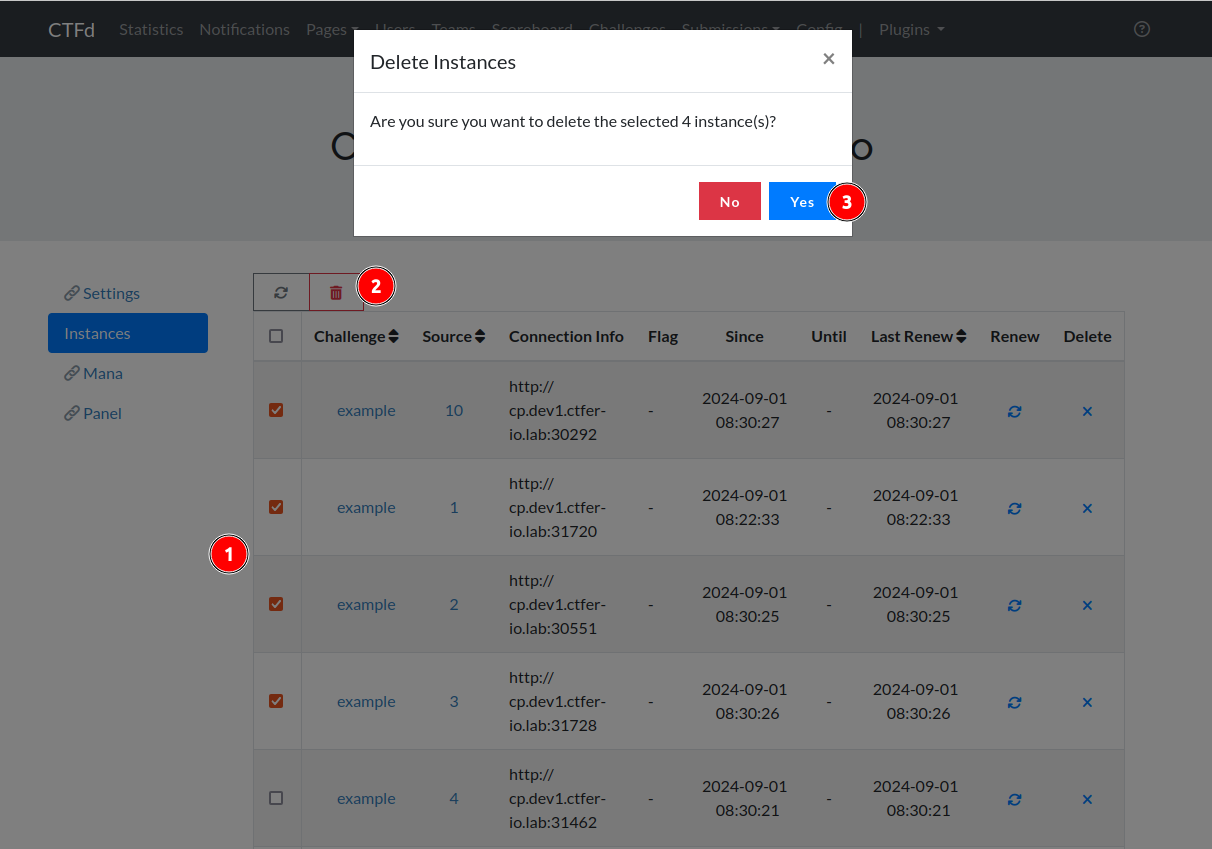
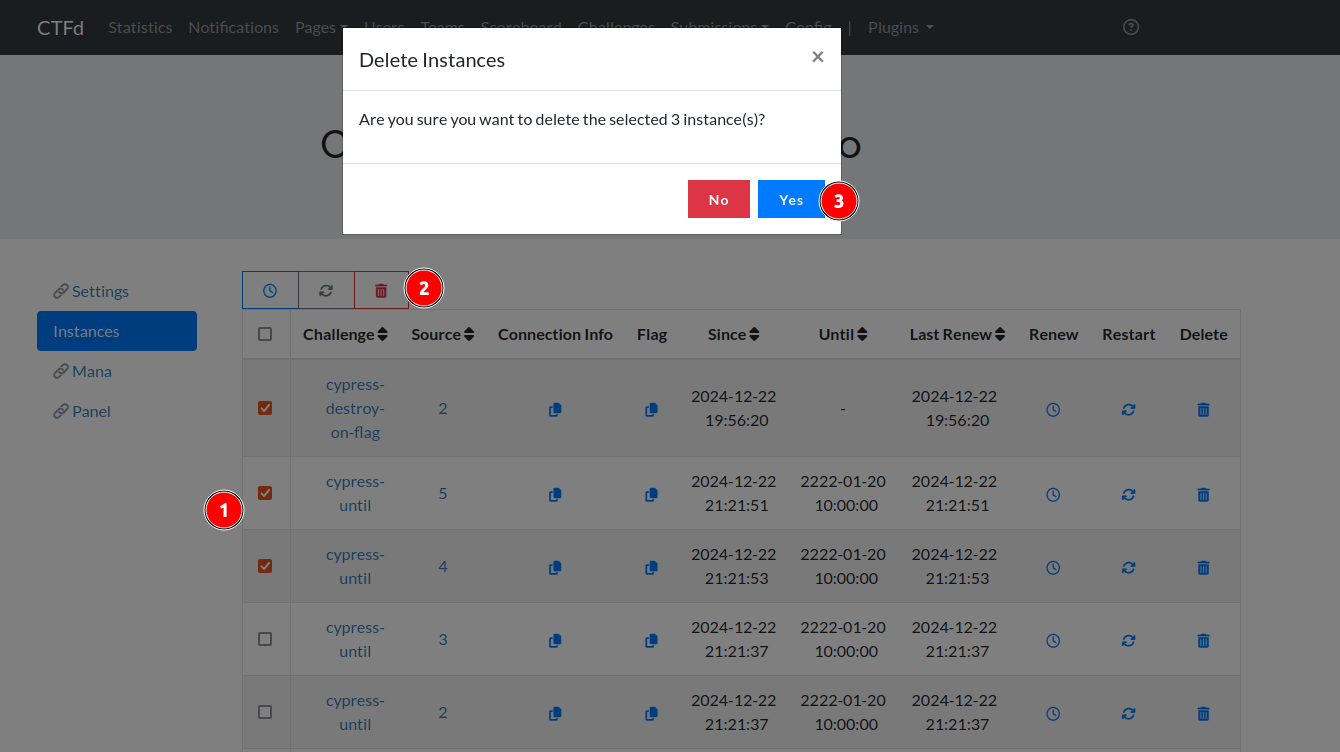
docs: update all screenshots and add explanation

diff --git a/webdocs/guides/panel/_index.md b/webdocs/guides/panel/_index.md
@@ -25,11 +25,11 @@ Even if users don't have the required mana, the instance will be created here.
 ## Deploy instances for users
 
 There may be several reasons why administrators create instances for users. 
-Here, we'll imagine that the CTF hasn't started yet, that it's a CTF in team mode and that 10 teams are expected. For the 10 teams, we want to deploy 1 instance of the “generated-flag” challenge.
+Here, we'll imagine that the CTF hasn't started yet, that it's a CTF in team mode and that 10 teams are expected. For the 10 teams, we want to deploy 1 instance of a challenge.
 
 Go to `CTFd Admin Panel` > `Plugins` > `chall-manager` > `Panel` such as:
 
-{{% imgproc panel-pattern Fit "800x800" %}}
+{{% imgproc batch-deploy Fit "800x800" %}}
 {{% /imgproc %}}
 
 By clicking on the button, you will send several requests to CTFd.
@@ -45,12 +45,12 @@ Once the progress bar is done (this mean instances are created on chall-manager)
 
 You can use this method during your event to deploy a hidden challenge (deploy instances before the challenge is release) for instance.
 
-## Deploy a global scope instance
+## Deploy a shared instance
 
-Here, we'll imagine that you did configure a challenge with global scope enabled.
-For the global challenge, you must put the pattern at **0**.
+Here, we'll imagine that you did configure a challenge with the sharing option enabled.
+For a shared challenge, you must put the pattern at **0**, or leave it empty.
 
-{{% imgproc panel-global Fit "800x800" %}}
+{{% imgproc panel-shared Fit "800x800" %}}
 {{% /imgproc %}}
 
 Like the previous use case, you will get a progress bar while the instance are getting deployed.

diff --git a/webdocs/guides/change-attribute/_index.md b/webdocs/guides/change-attribute/_index.md
@@ -19,10 +19,10 @@ For all updates, go to the CTFd Admin Panel and edit the challenge (https://CTFD
 {{% /imgproc %}}
 
 
-## Change the global scope
+## Change the scope
 When you arrive on the modification page, the value displayed is the one configured at the challenge level.
 
-{{% imgproc challenge-scope Fit "800x800" %}}
+{{% imgproc challenge-sharing Fit "800x800" %}}
 {{% /imgproc %}}
 
 By editing this value, you trigger instances destruction, see workflow belows:
@@ -31,12 +31,20 @@ By editing this value, you trigger instances destruction, see workflow belows:
 flowchart LR
     A[Update] --> B
     B[Update on CTFd backend] --> C 
-    C{challenge global ?} 
+    C{challenge is shared ?} 
     C -->|True|F[Destroy all instances]
-    C -->|False| E[Destroy global instance] 
+    C -->|False| E[Destroy the shared instance] 
     E --> H[Send update payload to CM]
     F --> H
 ```
+
+## Change the destroy on flag 
+When you arrive on the modification page, the value displayed is the one configured at the challenge level.
+
+{{% imgproc challenge-destroy-on-flag Fit "800x800" %}}
+{{% /imgproc %}}
+
+You can edit this value at any time without any impact on Chall-Manager API.
 
 ## Change the mana cost
 When you arrive on the modification page, the value displayed is the one configured at the challenge level.

diff --git a/webdocs/design/challenge/_index.md b/webdocs/design/challenge/_index.md
@@ -24,11 +24,11 @@ Here’s what the plugin adds:
 {{% imgproc create_challenge_attributes Fit "800x800" %}}
 {{% /imgproc %}}
 
-### Global Scope
+### Sharing
 
-The **global scope** is a boolean setting that allows a single instance to be shared among all players. 
+The **sharing** or **shared** is a boolean setting that allows a single instance to be shared among all players. 
 
-For instance, in the following setup, challenges 1, 2, and 3 have the global scope enabled, while challenge 4 does not:
+For instance, in the following setup, challenges 1, 2, and 3 have the sharing enabled, while challenge 4 does not:
 
 {{% imgproc pool_concept.excalidraw Fit "800x800" %}}
 {{% /imgproc %}}
@@ -39,7 +39,7 @@ In this scenario, player X (yellow) and player Y (blue) will each have their own
 
 Challenges with the **destroy-on-flag** option will automatically destroy the instance when the player submits the correct flag. 
 
-Please note: enabling this option will slow down CTFd's response time when the correct flag is submitted due to instance destruction.
+Please note: enabling this option will slow down CTFd's response time when the correct flag is submitted due to instance destruction. We recommend that you only activate this option if you don't want to use mana.
 
 ### Mana Cost
 

diff --git a/webdocs/design/source/_index.md b/webdocs/design/source/_index.md
@@ -13,7 +13,7 @@ As explained [here](/docs/chall-manager/glossary/#source), the *Source* refers t
 
 To enable sharing across all users, the `sourceId` is set to `0`. The table below summarizes the different scenarios:
 
-| user_mode | global scope | sourceId             |
+| user_mode | shared       | sourceId             |
 |-----------|--------------|----------------------|
 | users     | FALSE        | current_user.id      |
 | teams     | FALSE        | current_user.team_id |
@@ -31,7 +31,7 @@ flowchart LR
     A[Launch] --> B{CTFd mode}
     B -->|users| C[sourceId = user.id]
     B -->|teams| D[sourceId = user.team_id]
-    D --> E{challenge.global_scope}
+    D --> E{challenge.shared ?}
     C --> E
     E -->|True| F[sourceId = 0]
     E -->|False| End1

diff --git a/webdocs/get-started/admin-challenge/_index.md b/webdocs/get-started/admin-challenge/_index.md
@@ -34,9 +34,14 @@ Here are the basic CTFd settings:
 | Decay               	| 10                        	|
 | Minimum Value         | 10                        	|
 
-First, configure the scope. Since we want each player to have their own instance, disable the global scope.
+First, configure the scope. Since we want each player to have their own instance, disable the sharing option.
 
-{{% imgproc create_challenge_global_scope_disable Fit "800x800" %}}
+{{% imgproc create_challenge_sharing Fit "800x800" %}}
+{{% /imgproc %}}
+
+Next, let the *Destroy on Flag* disable
+
+{{% imgproc create_challenge_destroy-on-flag Fit "800x800" %}}
 {{% /imgproc %}}
 
 Next, set the mana cost. Players will need to spend 2 mana to deploy their own instance of the challenge.

diff --git a/webdocs/get-started/user-challenge/_index.md b/webdocs/get-started/user-challenge/_index.md
@@ -28,7 +28,7 @@ You can combine the values *Until* and *Timeout* to have 4 modes according to yo
 [Players](/docs/chall-manager/glossary/#player) can control all combinaisons, but each has these specificities.
 
 {{% alert title="Note" color="primary" %}}
-If global scope is enabled, only admins can launch the instance, see associated [guide](/docs/ctfd-chall-manager/guides/panel/#deploy-a-global-scope-instance).
+If the sharing option is enabled, only admins can launch the instance, see associated [guide](/docs/ctfd-chall-manager/guides/panel).
 {{% /alert %}}
 
 For all challenges, the default view (instance is not booted) will display a button to launch the instance, the mana cost and the remaining mana for current user.

diff --git a/webdocs/guides/instances/_index.md b/webdocs/guides/instances/_index.md
@@ -22,7 +22,7 @@ To monitor instances, go to the plugin settings in the `CTFd Admin Panel` > `Plu
 {{% /imgproc %}}
 
 ### Administration
-You can *Renew* or *Destroy* an individual instance by clicking the corresponding button in the instance row.
+You can *Renew* , *Restart* or *Destroy* an individual instance by clicking the corresponding button in the instance row.
 
 To perform actions on multiple instances, (1) select the instances using the checkboxes, (2) click the associated button, (3) then confirm your choice, as shown below:
 
